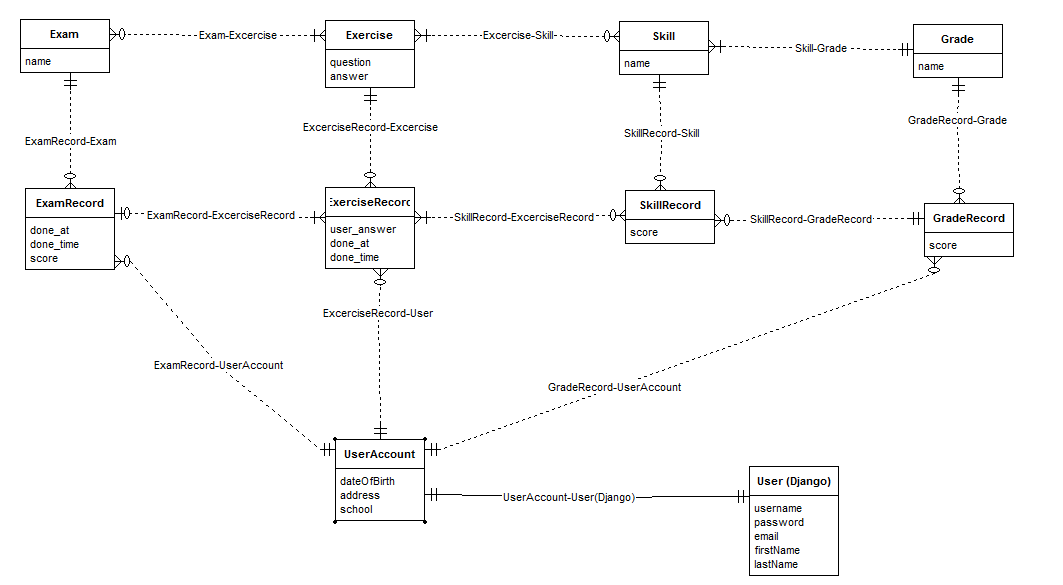
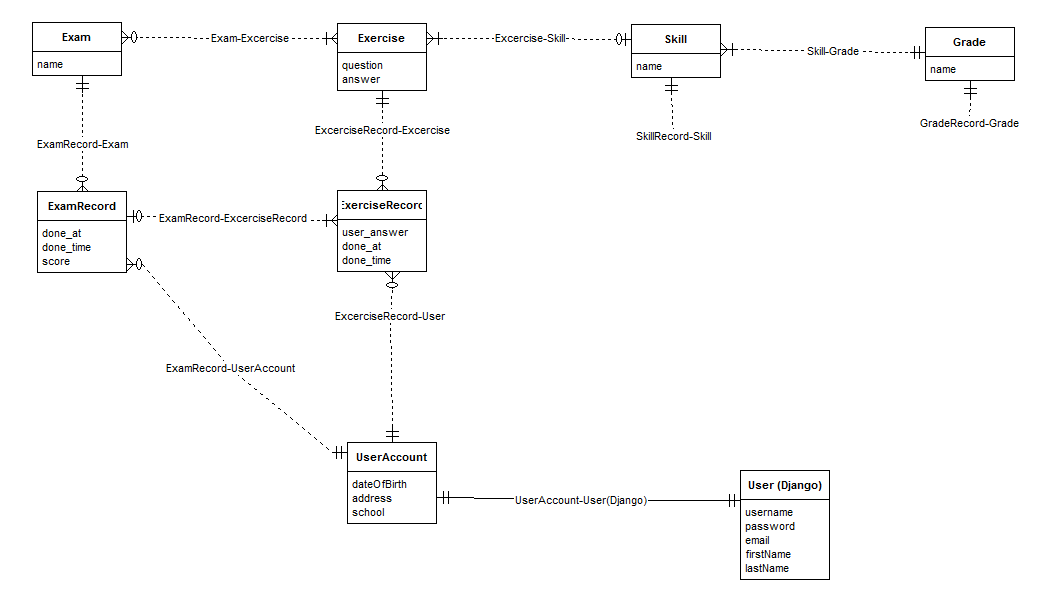
Update database models Remove SkillRecord and GradeRecord in design Change relationship between Skill and Exercise to one-to-many Update fixtures with change models

diff --git a/exercises/models.py b/exercises/models.py
@@ -19,7 +19,27 @@ class Grade(models.Model):
         return self.num_exercises
 
 
+class Skill(models.Model):
+    grade = models.ForeignKey(Grade, related_name="skills")
+    name = models.CharField(max_length=200)
+    num_exercises = models.IntegerField(default=0)
+
+    def __unicode__(self):
+        return self.name
+
+    def count_num_exercises(self):
+        self.num_exercises = self.exercises.all().count()
+        return self.num_exercises
+
+
 class Exercise(models.Model):
+    skill = models.ForeignKey(
+        Skill,
+        default=None,
+        null=True,
+        blank=True,
+        related_name='exercises'
+    )
     question = models.CharField(max_length=1000)
     answer = models.CharField(max_length=200)
     pub_date = models.DateTimeField(
@@ -29,20 +49,6 @@ class Exercise(models.Model):
 
     def __unicode__(self):
         return self.question
-
-
-class Skill(models.Model):
-    grade = models.ForeignKey(Grade, related_name="skills")
-    name = models.CharField(max_length=200)
-    num_exercises = models.IntegerField(default=0)
-    exercises = models.ManyToManyField(Exercise, blank=True)
-
-    def __unicode__(self):
-        return self.name
-
-    def count_num_exercises(self):
-        self.num_exercises = self.exercises.all().count()
-        return self.num_exercises
 
 
 class Exam(models.Model):

diff --git a/exercises/migrations/0002_auto_20151109_1125.py b/exercises/migrations/0002_auto_20151109_1125.py
@@ -1,0 +1,23 @@
+# -*- coding: utf-8 -*-
+from __future__ import unicode_literals
+
+from django.db import migrations, models
+
+
+class Migration(migrations.Migration):
+
+    dependencies = [
+        ('exercises', '0001_initial'),
+    ]
+
+    operations = [
+        migrations.RemoveField(
+            model_name='skill',
+            name='exercises',
+        ),
+        migrations.AddField(
+            model_name='exercise',
+            name='skill',
+            field=models.ForeignKey(related_name='exercises', default=None, blank=True, to='exercises.Skill', null=True),
+        ),
+    ]

diff --git a/exercises/admin.py b/exercises/admin.py
@@ -6,7 +6,7 @@ from exercises.models import Grade, Skill, Exercise, Exam
 class ExerciseAdmin(admin.ModelAdmin):
     readonly_fields = ['pub_date']
     fieldsets = [
-        ('Content', {'fields': ['question', 'answer']}),
+        ('Content', {'fields': ['question', 'answer', 'skill']}),
         ('Date information', {'fields': ['pub_date']}),
     ]
     list_display = (
